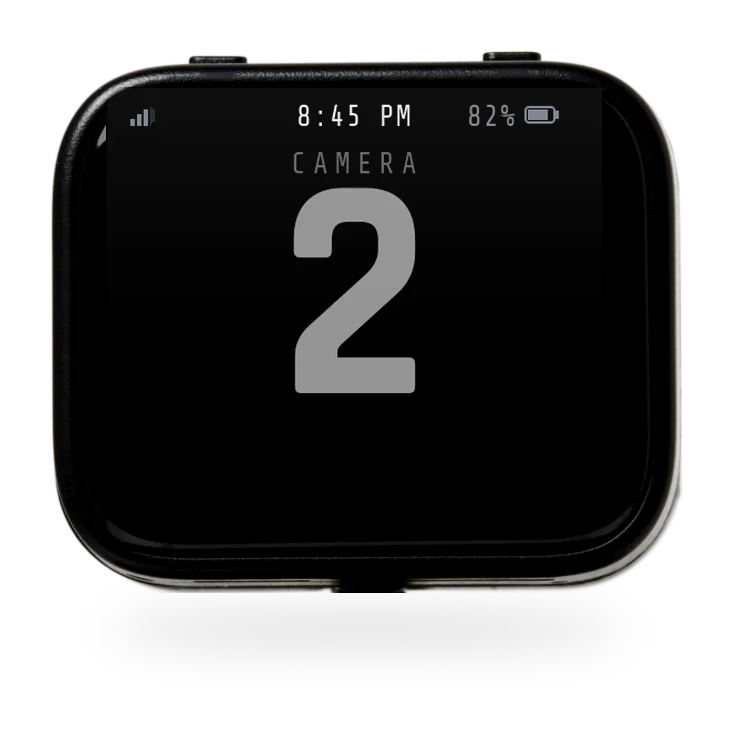
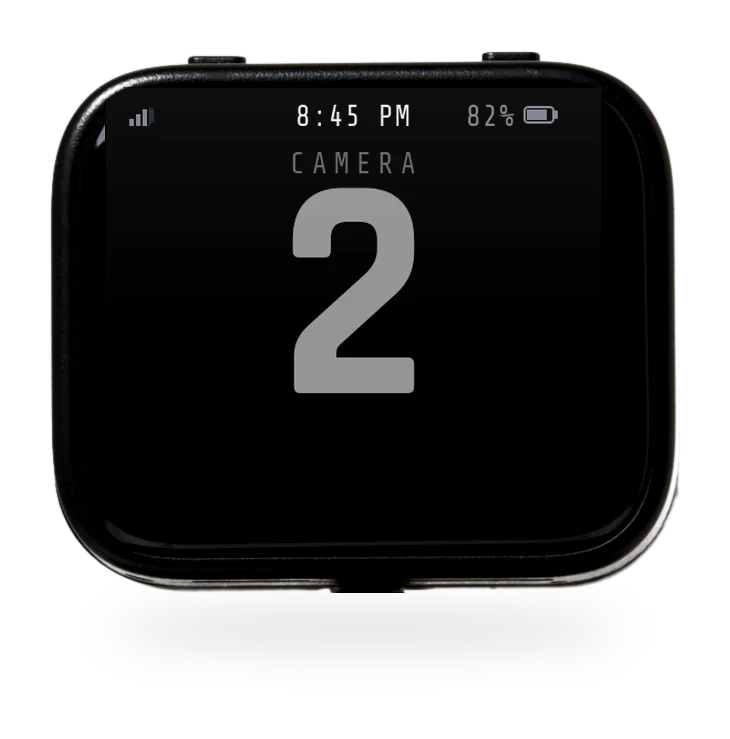
Photo cut-outs at finer edges: masks at half size and a darkness matte, so the table's shadow drops out; dust filter kept off screens

diff --git a/index.html b/index.html
@@ -68,14 +68,14 @@
     <p class="tag">A timer for the lectern. Tally for the rig.</p>
     <p class="price">$139</p>
     <div class="links"><a class="more" href="#compare">Learn more</a><a class="more" data-buy="cue" href="#signup">Pre-order</a></div>
-    <div class="art photo"><img src="/static/photos/cue-dock.webp" alt="A Downstage Cue on its Cue Dock, running its own countdown: 18:12 in a green ring" width="1000" height="1141"></div>
+    <div class="art photo"><img src="/static/photos/cue-dock.webp" alt="A Downstage Cue on its Cue Dock, running its own countdown: 18:12 in a green ring" width="1000" height="1147"></div>
   </article>
   <article class="t light" data-rise>
     <h2>Cue Lite</h2>
     <p class="tag">The camera's light.</p>
     <p class="price">$99</p>
     <div class="links"><a class="more" href="#compare">Learn more</a><a class="more" data-buy="lite" href="#signup">Pre-order</a></div>
-    <div class="art photo"><img data-photo="lite" src="/static/photos/lite-program.webp" alt="A Cue Lite showing camera 2 with its tally" width="733" height="739"></div>
+    <div class="art photo"><img data-photo="lite" src="/static/photos/lite-program.webp" alt="A Cue Lite showing camera 2 with its tally" width="730" height="739"></div>
   </article>
   <article class="t dark" data-rise style="--i:1">
     <h2>Cue 360</h2>
@@ -275,7 +275,7 @@
 
 <section class="sec later-one" id="one" aria-labelledby="one-h">
   <div class="later-card" data-rise>
-    <img class="unit photo" src="/static/photos/one-3q.webp" alt="The Downstage One, a black aluminum box with its front display" width="1400" height="1156">
+    <img class="unit photo" src="/static/photos/one-3q.webp" alt="The Downstage One, a black aluminum box with its front display" width="1400" height="1157">
     <div>
       <p class="later">Coming later</p>
       <h2 id="one-h">Downstage One</h2>

diff --git a/one/index.html b/one/index.html
@@ -111,8 +111,8 @@
     <h2 id="specs-h">Tech specs.</h2>
   </div>
   <div class="one-photos" data-rise>
-    <img src="/static/photos/one-3q.webp" alt="The Downstage One from the front, at an angle" width="1400" height="1156" loading="lazy">
-    <img src="/static/photos/one-ports.webp" alt="The Downstage One's back: USB-C power, two HDMI outputs, Ethernet, four USB ports and two audio jacks" width="1600" height="527" loading="lazy">
+    <img src="/static/photos/one-3q.webp" alt="The Downstage One from the front, at an angle" width="1400" height="1157" loading="lazy">
+    <img src="/static/photos/one-ports.webp" alt="The Downstage One's back: USB-C power, two HDMI outputs, Ethernet, four USB ports and two audio jacks" width="1600" height="518" loading="lazy">
   </div>
   <dl class="specs" data-rise>
     <div><dt>Outputs</dt><dd>Two HDMI: confidence monitor and backstage</dd></div>
